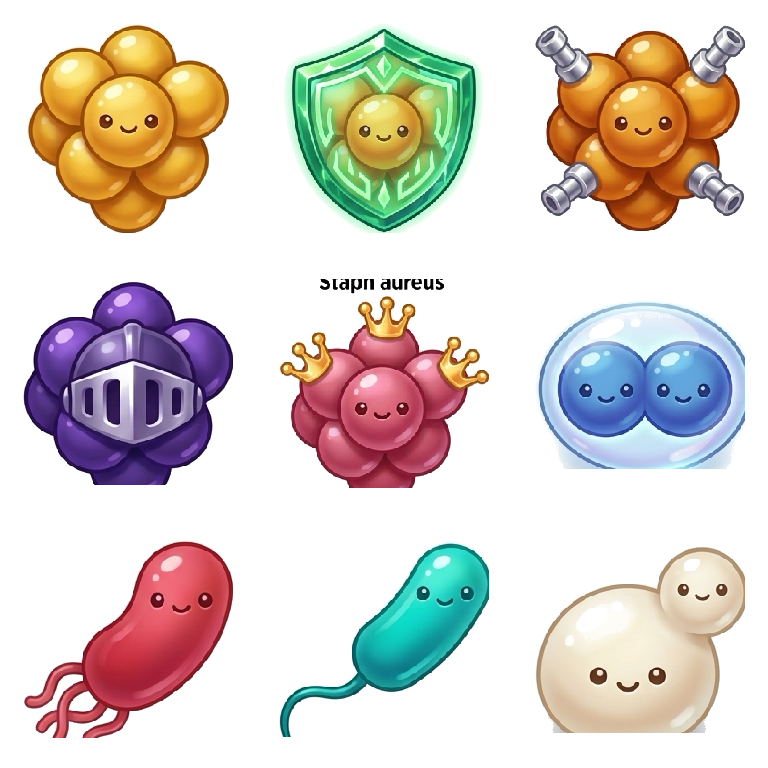
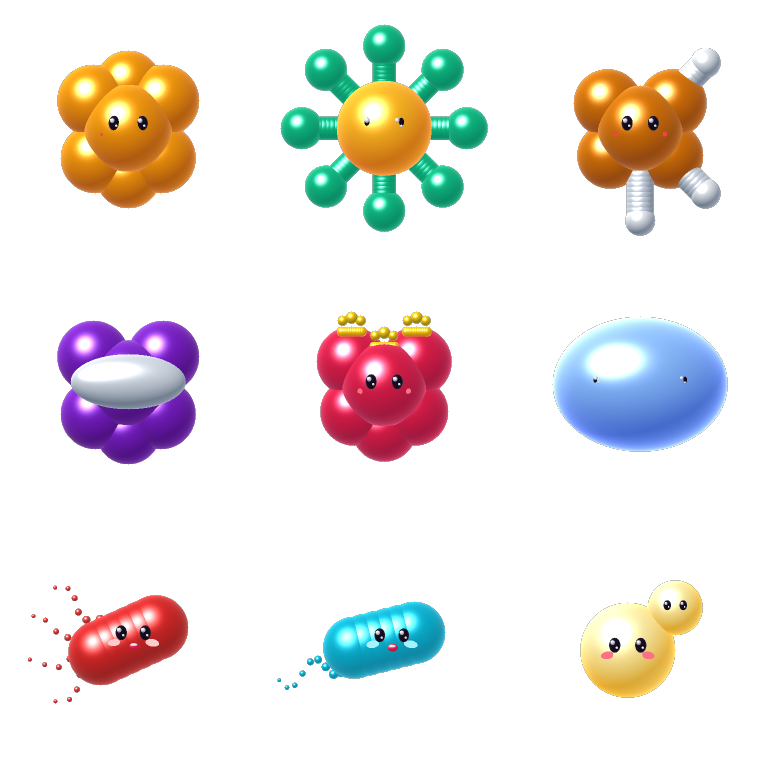
feat(graphics): all-new 100% solid 2.5D sprites, unchained freestanding gates, and organic biofilm

diff --git a/src/game/gate-view.ts b/src/game/gate-view.ts
@@ -36,25 +36,16 @@ export class GateView {
     ctx.scale(proj.scale, proj.scale);
 
     const gateWidth = gate.width;
-    const gateHeight = 74;
-    const halfWidth = gateWidth / 2;
-    const laneWidth = gateWidth / 2 - 8;
 
-    // Outer Gate Archway Frame with metallic bevel and dark glass backplate
-    ctx.save();
-    ctx.fillStyle = 'rgba(15, 8, 20, 0.75)';
-    ctx.strokeStyle = 'rgba(255, 255, 255, 0.2)';
-    ctx.lineWidth = 2;
-    ctx.beginPath();
-    ctx.roundRect(-halfWidth - 6, -gateHeight - 6, gateWidth + 12, gateHeight + 12, 18);
-    ctx.fill();
-    ctx.stroke();
-    ctx.restore();
+    // -------------------------------------------------------------
+    // TWO INDEPENDENT FREESTANDING PORTALS (NO SHARED CHAIN / FRAME)
+    // -------------------------------------------------------------
+    const portalWidth = 108;
+    const portalHeight = 78;
+    const laneOffset = gateWidth * 0.28; // e.g. 78px from center
 
-    // Helper to render a high-end arcade glass lane
-    const renderLane = (
-      x: number,
-      width: number,
+    const renderIndependentPortal = (
+      centerX: number,
       op: 'multiply' | 'add',
       val: number,
       passed: boolean,
@@ -63,117 +54,133 @@ export class GateView {
       label: string
     ) => {
       ctx.save();
+      ctx.translate(centerX, 0);
       const text = op === 'multiply' ? `×${val}` : `+${val}`;
 
       if (passed) {
-        ctx.fillStyle = 'rgba(30, 41, 59, 0.6)';
+        // Passed portal: inactive dark glass
+        ctx.fillStyle = 'rgba(20, 25, 35, 0.6)';
         ctx.strokeStyle = '#475569';
-        ctx.lineWidth = 2.5;
+        ctx.lineWidth = 2;
         ctx.beginPath();
-        ctx.roundRect(x, -gateHeight, width, gateHeight, 14);
+        ctx.roundRect(-portalWidth / 2, -portalHeight, portalWidth, portalHeight, 16);
         ctx.fill();
         ctx.stroke();
 
-        ctx.fillStyle = '#94a3b8';
-        ctx.font = 'bold 22px system-ui, -apple-system, sans-serif';
+        ctx.fillStyle = '#64748b';
+        ctx.font = 'bold 20px system-ui, -apple-system, sans-serif';
         ctx.textAlign = 'center';
         ctx.textBaseline = 'middle';
-        ctx.fillText(text, x + width / 2, -gateHeight / 2);
+        ctx.fillText(text, 0, -portalHeight / 2);
         ctx.restore();
         return;
       }
 
-      // 1. Glowing outer border
+      // 1. Freestanding ground pedestal shadow
+      ctx.fillStyle = 'rgba(0, 0, 0, 0.35)';
+      ctx.beginPath();
+      ctx.ellipse(0, 4, portalWidth * 0.55, 10, 0, 0, Math.PI * 2);
+      ctx.fill();
+
+      // 2. Freestanding Ground Base Pedestal
+      ctx.fillStyle = 'rgba(15, 23, 42, 0.85)';
+      ctx.strokeStyle = baseColor;
+      ctx.lineWidth = 2;
+      ctx.beginPath();
+      ctx.roundRect(-portalWidth / 2 - 4, -8, portalWidth + 8, 12, 6);
+      ctx.fill();
+      ctx.stroke();
+
+      // 3. Glowing neon energy portal archway
       ctx.shadowColor = glowColor;
-      ctx.shadowBlur = 14;
+      ctx.shadowBlur = 16;
       ctx.strokeStyle = baseColor;
       ctx.lineWidth = 3.5;
 
-      // 2. High-contrast energetic glass gradient fill
-      const laneGrad = ctx.createLinearGradient(x, -gateHeight, x, 0);
+      // Volumetric energetic vertical gradient
+      const portalGrad = ctx.createLinearGradient(0, -portalHeight, 0, 0);
       if (op === 'multiply') {
-        // Vibrant Amber/Gold or Royal Violet
-        laneGrad.addColorStop(0, 'rgba(245, 158, 11, 0.65)');
-        laneGrad.addColorStop(0.5, 'rgba(217, 119, 6, 0.4)');
-        laneGrad.addColorStop(1, 'rgba(180, 83, 9, 0.65)');
+        portalGrad.addColorStop(0, 'rgba(245, 158, 11, 0.75)');
+        portalGrad.addColorStop(0.5, 'rgba(217, 119, 6, 0.45)');
+        portalGrad.addColorStop(1, 'rgba(180, 83, 9, 0.7)');
       } else {
-        // Electric Cyan / Teal
-        laneGrad.addColorStop(0, 'rgba(6, 182, 212, 0.65)');
-        laneGrad.addColorStop(0.5, 'rgba(14, 116, 144, 0.4)');
-        laneGrad.addColorStop(1, 'rgba(8, 145, 178, 0.65)');
+        portalGrad.addColorStop(0, 'rgba(6, 182, 212, 0.75)');
+        portalGrad.addColorStop(0.5, 'rgba(14, 116, 144, 0.45)');
+        portalGrad.addColorStop(1, 'rgba(8, 145, 178, 0.7)');
       }
-      ctx.fillStyle = laneGrad;
+      ctx.fillStyle = portalGrad;
 
       ctx.beginPath();
-      ctx.roundRect(x, -gateHeight, width, gateHeight, 14);
+      ctx.roundRect(-portalWidth / 2, -portalHeight, portalWidth, portalHeight, 16);
       ctx.fill();
       ctx.stroke();
 
-      // Reset shadow for crisp inner elements
+      // Clear shadow for crisp interior
       ctx.shadowBlur = 0;
 
-      // 3. Inner glass bevel rim
-      ctx.strokeStyle = 'rgba(255, 255, 255, 0.45)';
+      // 4. Inner glass reflection bevel
+      ctx.strokeStyle = 'rgba(255, 255, 255, 0.5)';
       ctx.lineWidth = 1.2;
       ctx.beginPath();
-      ctx.roundRect(x + 2, -gateHeight + 2, width - 4, gateHeight - 4, 12);
+      ctx.roundRect(-portalWidth / 2 + 3, -portalHeight + 3, portalWidth - 6, portalHeight - 6, 13);
       ctx.stroke();
 
-      // 4. Volumetric specular glass reflection (curved top sheen)
-      const sheenGrad = ctx.createLinearGradient(x, -gateHeight + 3, x, -gateHeight + gateHeight * 0.45);
-      sheenGrad.addColorStop(0, 'rgba(255, 255, 255, 0.5)');
+      // 5. Curved top specular glass sheen
+      const sheenGrad = ctx.createLinearGradient(0, -portalHeight + 4, 0, -portalHeight + 32);
+      sheenGrad.addColorStop(0, 'rgba(255, 255, 255, 0.55)');
       sheenGrad.addColorStop(1, 'rgba(255, 255, 255, 0.05)');
       ctx.fillStyle = sheenGrad;
       ctx.beginPath();
-      ctx.roundRect(x + 4, -gateHeight + 3, width - 8, gateHeight * 0.4, 10);
+      ctx.roundRect(-portalWidth / 2 + 5, -portalHeight + 4, portalWidth - 10, 26, 10);
       ctx.fill();
 
-      // 5. Sleek frosted header badge pill
-      const badgeW = width * 0.72;
-      const badgeH = 15;
-      const badgeX = x + (width - badgeW) / 2;
-      const badgeY = -gateHeight + 7;
-      ctx.fillStyle = 'rgba(15, 8, 20, 0.55)';
+      // 6. Left & Right vertical energy side pillars
+      ctx.fillStyle = 'rgba(255, 255, 255, 0.35)';
+      ctx.fillRect(-portalWidth / 2 + 4, -portalHeight + 12, 3, portalHeight - 24);
+      ctx.fillRect(portalWidth / 2 - 7, -portalHeight + 12, 3, portalHeight - 24);
+
+      // 7. Frosted top header badge
+      const badgeW = portalWidth * 0.78;
+      const badgeH = 16;
+      ctx.fillStyle = 'rgba(15, 8, 20, 0.65)';
       ctx.beginPath();
-      ctx.roundRect(badgeX, badgeY, badgeW, badgeH, 7);
+      ctx.roundRect(-badgeW / 2, -portalHeight + 7, badgeW, badgeH, 8);
       ctx.fill();
-      ctx.strokeStyle = 'rgba(255, 255, 255, 0.3)';
+      ctx.strokeStyle = 'rgba(255, 255, 255, 0.35)';
       ctx.lineWidth = 1;
       ctx.stroke();
 
-      ctx.fillStyle = 'rgba(255, 255, 255, 0.95)';
+      ctx.fillStyle = '#ffffff';
       ctx.font = 'bold 9px system-ui, -apple-system, sans-serif';
       ctx.textAlign = 'center';
       ctx.textBaseline = 'middle';
-      ctx.fillText(label, badgeX + badgeW / 2, badgeY + badgeH / 2);
+      ctx.fillText(label, 0, -portalHeight + 7 + badgeH / 2);
 
-      // 6. Large 3D Neon numeric multiplier value
-      const valY = -gateHeight / 2 + 10;
-      // Drop shadow for number
+      // 8. 3D Neon numeric multiplier value
+      const numY = -portalHeight / 2 + 10;
       ctx.fillStyle = 'rgba(0, 0, 0, 0.5)';
       ctx.font = '900 28px system-ui, -apple-system, sans-serif';
-      ctx.fillText(text, x + width / 2, valY + 2);
+      ctx.fillText(text, 0, numY + 2);
 
-      // Glowing text
       ctx.shadowColor = glowColor;
       ctx.shadowBlur = 12;
       ctx.fillStyle = '#ffffff';
-      ctx.fillText(text, x + width / 2, valY);
+      ctx.fillText(text, 0, numY);
 
       ctx.restore();
     };
 
-    // 1. LEFT LANE
+    // 1. LEFT INDEPENDENT PORTAL
     const leftColor = gate.leftOp === 'multiply' ? '#c084fc' : '#38bdf8';
-    const leftGlow = gate.leftOp === 'multiply' ? 'rgba(192, 132, 252, 0.7)' : 'rgba(56, 189, 248, 0.7)';
+    const leftGlow = gate.leftOp === 'multiply' ? 'rgba(192, 132, 252, 0.8)' : 'rgba(56, 189, 248, 0.8)';
     const leftLabel = gate.leftOp === 'multiply' ? 'SWARM' : 'REINFORCE';
-    renderLane(-halfWidth + 4, laneWidth, gate.leftOp, gate.leftValue, gate.leftPassed, leftColor, leftGlow, leftLabel);
+    renderIndependentPortal(-laneOffset, gate.leftOp, gate.leftValue, gate.leftPassed, leftColor, leftGlow, leftLabel);
 
-    // 2. RIGHT LANE
+    // 2. RIGHT INDEPENDENT PORTAL (with wide open gap in the middle)
     const rightColor = gate.rightOp === 'multiply' ? '#fbbf24' : '#34d399';
-    const rightGlow = gate.rightOp === 'multiply' ? 'rgba(251, 191, 36, 0.7)' : 'rgba(52, 211, 153, 0.7)';
+    const rightGlow = gate.rightOp === 'multiply' ? 'rgba(251, 191, 36, 0.8)' : 'rgba(52, 211, 153, 0.8)';
     const rightLabel = gate.rightOp === 'multiply' ? 'CASCADE' : 'REINFORCE';
-    renderLane(4, laneWidth, gate.rightOp, gate.rightValue, gate.rightPassed, rightColor, rightGlow, rightLabel);
+    renderIndependentPortal(laneOffset, gate.rightOp, gate.rightValue, gate.rightPassed, rightColor, rightGlow, rightLabel);
 
     ctx.restore();
   }
@@ -192,50 +199,89 @@ export class GateView {
     ctx.scale(proj.scale, proj.scale);
 
     const bWidth = biofilm.width;
-    const bHeight = biofilm.height;
+    const bHeight = 48; // Sleeker, more organic profile
 
-    // Translucent gelatinous biofilm barrier
-    const bioGrad = ctx.createLinearGradient(-bWidth / 2, -bHeight / 2, bWidth / 2, bHeight / 2);
-    bioGrad.addColorStop(0, 'rgba(168, 85, 247, 0.65)');
-    bioGrad.addColorStop(0.5, 'rgba(236, 72, 153, 0.75)');
-    bioGrad.addColorStop(1, 'rgba(217, 70, 239, 0.65)');
-    ctx.fillStyle = bioGrad;
+    // 1. Organic Extracellular Slime Matrix (Wavy Bezier Web)
+    const time = Date.now() * 0.003;
+    ctx.save();
+    const slimeGrad = ctx.createLinearGradient(-bWidth / 2, -bHeight / 2, bWidth / 2, bHeight / 2);
+    slimeGrad.addColorStop(0, 'rgba(147, 51, 234, 0.65)');
+    slimeGrad.addColorStop(0.5, 'rgba(236, 72, 153, 0.7)');
+    slimeGrad.addColorStop(1, 'rgba(168, 85, 247, 0.65)');
+    ctx.fillStyle = slimeGrad;
     ctx.strokeStyle = '#f472b6';
-    ctx.lineWidth = 3;
+    ctx.lineWidth = 2.5;
 
     ctx.beginPath();
-    ctx.roundRect(-bWidth / 2, -bHeight / 2, bWidth, bHeight, 18);
+    ctx.moveTo(-bWidth / 2, -bHeight / 2);
+    // Wavy top edge
+    for (let x = -bWidth / 2; x <= bWidth / 2; x += 30) {
+      const wave = Math.sin(time + x * 0.05) * 6;
+      ctx.lineTo(x, -bHeight / 2 + wave);
+    }
+    ctx.lineTo(bWidth / 2, bHeight / 2);
+    // Wavy bottom edge with dripping tendrils
+    for (let x = bWidth / 2; x >= -bWidth / 2; x -= 30) {
+      const wave = Math.sin(time * 1.2 + x * 0.04) * 8;
+      ctx.lineTo(x, bHeight / 2 + wave);
+    }
+    ctx.closePath();
     ctx.fill();
     ctx.stroke();
 
-    // Viscous bubbles inside biofilm
-    ctx.fillStyle = 'rgba(255, 255, 255, 0.4)';
-    [[-80, -10, 10], [-30, 8, 8], [40, -8, 12], [90, 6, 9]].forEach(([bx, by, br]) => {
+    // Floating viscous bubbles inside matrix
+    ctx.fillStyle = 'rgba(255, 255, 255, 0.45)';
+    [[-100, -6, 8], [-40, 6, 7], [30, -5, 10], [90, 4, 8]].forEach(([bx, by, br]) => {
       ctx.beginPath();
       ctx.arc(bx, by, br, 0, Math.PI * 2);
       ctx.fill();
     });
+    ctx.restore();
 
-    // Biofilm HP bar
+    // 2. High-Tech Floating Barrier HUD Header
     const hpRatio = Math.max(0, biofilm.hp / biofilm.maxHp);
-    const hpW = 120;
-    ctx.fillStyle = 'rgba(15, 23, 42, 0.8)';
+    const hpW = 140;
+    const hpH = 10;
+    const plateY = -bHeight / 2 - 20;
+
+    // Dark glass backing plate
+    ctx.fillStyle = 'rgba(15, 8, 20, 0.85)';
     ctx.beginPath();
-    ctx.roundRect(-hpW / 2, -bHeight / 2 - 16, hpW, 9, 4);
+    ctx.roundRect(-hpW / 2 - 6, plateY - 14, hpW + 12, hpH + 22, 10);
+    ctx.fill();
+    ctx.strokeStyle = 'rgba(244, 114, 182, 0.6)';
+    ctx.lineWidth = 1.2;
+    ctx.stroke();
+
+    // Barrier label
+    ctx.fillStyle = '#fdf2f8';
+    ctx.font = 'bold 9px system-ui, -apple-system, sans-serif';
+    ctx.textAlign = 'center';
+    ctx.textBaseline = 'middle';
+    ctx.fillText('BIOFILM MATRIX', 0, plateY - 5);
+
+    // Segmented HP Bar
+    ctx.fillStyle = 'rgba(30, 41, 59, 0.9)';
+    ctx.beginPath();
+    ctx.roundRect(-hpW / 2, plateY + 4, hpW, hpH, 4);
     ctx.fill();
 
-    ctx.fillStyle = '#ec4899';
+    const hpGrad = ctx.createLinearGradient(-hpW / 2, 0, hpW / 2, 0);
+    hpGrad.addColorStop(0, '#f43f5e');
+    hpGrad.addColorStop(0.5, '#ec4899');
+    hpGrad.addColorStop(1, '#a855f7');
+    ctx.fillStyle = hpGrad;
     ctx.beginPath();
-    ctx.roundRect(-hpW / 2 + 1, -bHeight / 2 - 15, (hpW - 2) * hpRatio, 7, 3);
+    ctx.roundRect(-hpW / 2 + 1, plateY + 5, Math.max(0, (hpW - 2) * hpRatio), hpH - 2, 3);
     ctx.fill();
 
-    // Reward icon text
+    // Reward indicator on matrix
     ctx.fillStyle = '#fef08a';
     ctx.font = 'bold 12px system-ui, -apple-system, sans-serif';
     ctx.textAlign = 'center';
     ctx.textBaseline = 'middle';
-    const rewardText = biofilm.rewardType === 'coins' ? `💰 ${biofilm.rewardAmount}` : `★ FREE ${biofilm.rewardType.toUpperCase()}`;
-    ctx.fillText(rewardText, 0, 0);
+    const rewardText = biofilm.rewardType === 'coins' ? `💰 +${biofilm.rewardAmount} COINS` : `★ FREE ${biofilm.rewardType.toUpperCase()}`;
+    ctx.fillText(rewardText, 0, 2);
 
     ctx.restore();
   }

diff --git a/src/game/swarm-view.ts b/src/game/swarm-view.ts
@@ -54,9 +54,9 @@ export class SwarmView {
     // 1. Soft directional 3/4 perspective ground contact shadow
     const shadowScale = proj.scale;
     const shadowR = (unit.kind === 'macrophage' ? 24 : 18) * shadowScale;
-    ctx.fillStyle = 'rgba(25, 5, 20, 0.32)';
+    ctx.fillStyle = 'rgba(20, 5, 25, 0.28)';
     ctx.beginPath();
-    ctx.ellipse(proj.x, proj.y + 22 * shadowScale, shadowR, shadowR * 0.38, 0, 0, Math.PI * 2);
+    ctx.ellipse(proj.x, proj.y + 16 * shadowScale, shadowR, shadowR * 0.35, 0, 0, Math.PI * 2);
     ctx.fill();
 
     // 2. Transform for squash and stretch

diff --git a/src/simulation/swarm.ts b/src/simulation/swarm.ts
@@ -53,9 +53,9 @@ export function updateSwarmFlocking(
   corridorHalfWidth: number = 190
 ): void {
   const offsets = computePhyllotaxisOffsets(defenders.length, {
-    spacing: 21,
+    spacing: 30,
     corridorHalfWidth,
-    longitudinalStretch: 1.3
+    longitudinalStretch: 1.35
   });
 
   const springK = 14.0;
